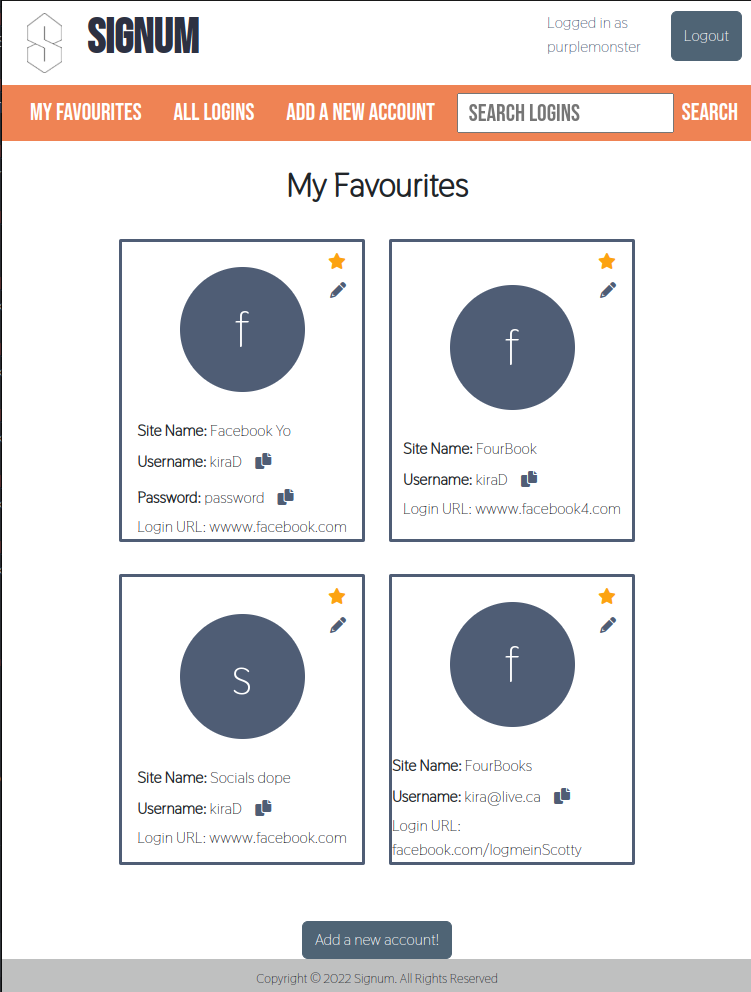
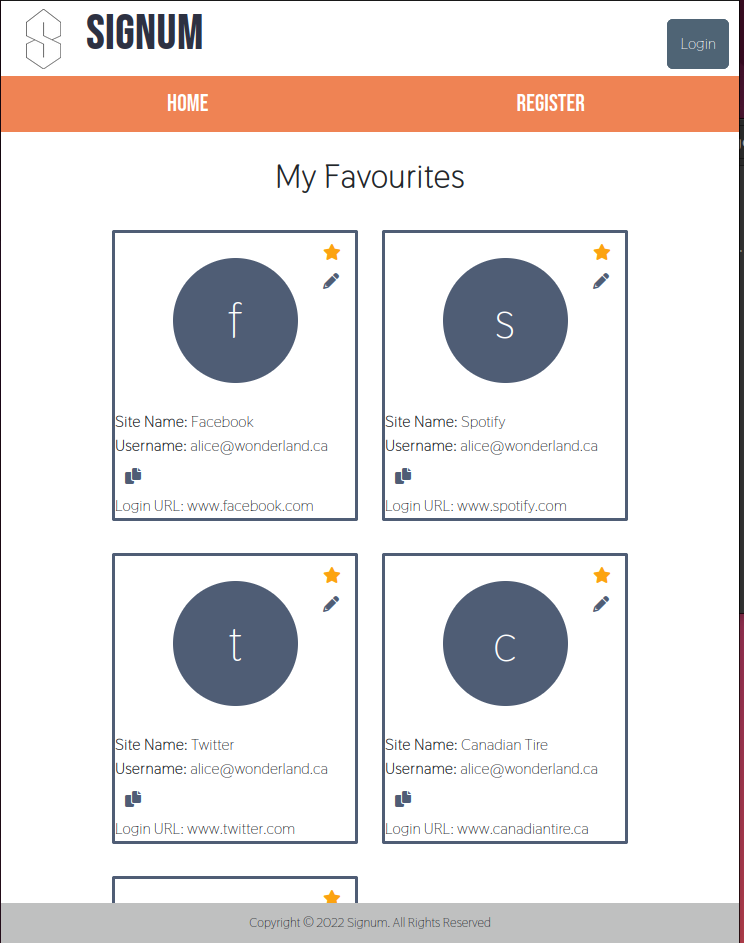
Add demo to not logged in user demo page

diff --git a/routes/home.js b/routes/home.js
@@ -14,11 +14,15 @@ module.exports = (db) => {
   //load home page, defaulting to favourited logins
   router.get("/", (req, res) => {
     let user_id = '';
+    let title = '';
     if (!req.session.userId) {
       //demo user
       user_id = 1;
+      title = 'My Favourites (DEMO)';
+
     } else {
       user_id = req.session.userId.id;
+      title = 'My Favourites'
     }
     const queryString = `
       SELECT *
@@ -30,7 +34,7 @@ module.exports = (db) => {
 
     db.query(queryString, [`${user_id}`])
       .then(data =>{
-        const templateVars = {user: req.session.userId, data: data.rows, Title: "My Favourites"};
+        const templateVars = {user: req.session.userId, data: data.rows, Title: title};
         res.render('index', templateVars);
 
       })
